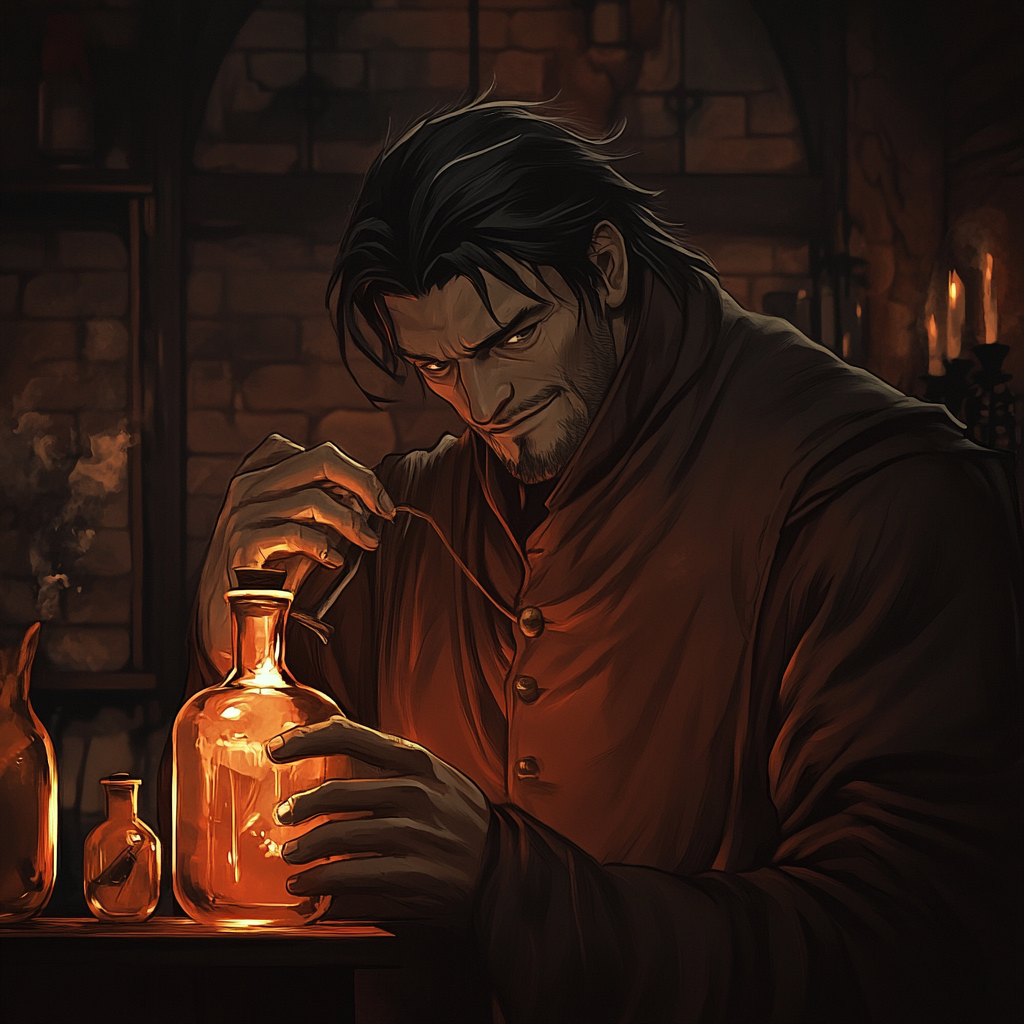
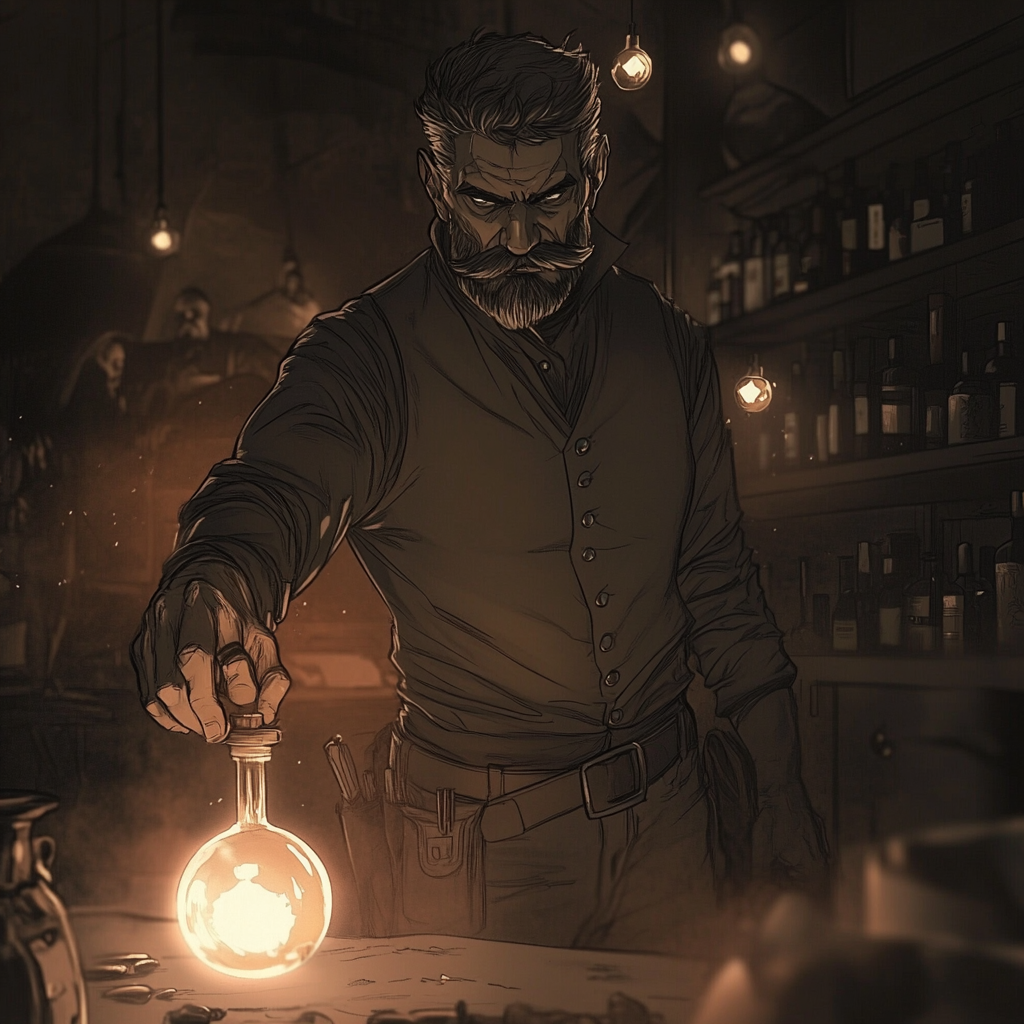
NPC Update

diff --git a/content/People/Individuals/Wagram/Criminals/Jetta.md b/content/People/Individuals/Wagram/Criminals/Jetta.md
@@ -1,7 +1,7 @@
 ---
 aliases:
   - Jetta Valentine
-draft: true
+draft: false
 tags:
   - NPC
   - Wagram
@@ -15,21 +15,32 @@ Secretly the grand-daughter of [[Oliver Valentine|Baron Oliver Valentine]]
 
 %%
 
+# Summary
+Jetta is a known agent of [[Skiggs]]. She uses her abilities in disguise and mental manipulation for both information gathering and recruitment of new talent for [[Skiggs]].
+## Connections
+Has encountered the party a couple of times knows all but [[Effi]]'s face.
+Seems to have known who [[Merrik]] was before they had a confrontation.
 # Powers
 ## Gilded Mask
 The user can subtly shift their appearance and voice to aide in any and all social situations.
+%%
 - Add +2 to all skill checks that could take into account someone's appearance.
 	- Convince, Connect, or even Sneak.
 - Ability to change facial features and voice at will
+%%
 ## Silver Tongue
 The user can infuse their words with magic. When they speaks with intent, people find it difficult to doubt them or recognize lies, at least in the moment. They can use this to negotiate, trick guards, or diffuse conflicts, but strong-willed individuals may resist, and the effect fades if contradictions become obvious.
+%%
 - Can be used 3 times per day
 - Cause the listener to make a mental saving throw. If they fail they must view the user in whatever way the user wanted as they spoke
 	- If the user is pretending to be a commanding officer, or innocent bystander then the victim believes that is what they are.
 - If the user takes a hostile action or something completely contradicts the the lie the victim immediately breaks the effect.
+%%
 ## Phantom’s Grace
 The user can create illusions of themselves tied to movement. Afterimages of themselves, flickers of motion where their isn’t, or even making an object seem to vanish when they hands it off. This makes them excellent at sleight of hand, escapes, and misdirection.
+%%
 - Grant 18 AC in combat as they leave behind afterimages and random flickers of motion that make them hard to pin down.
 - Once per day they may send out a burst of a dozen images sprinting in all directions in an attempt to escape.
 	- Any attack on one of these dozen images requires a roll to determine if it was the real user.
 	- 1d12 at the start reducing by one (1d11, 1d10) every time an image is shown to be false by taking damage.
+%%

diff --git a/content/People/Individuals/Wagram/Criminals/Skiggs.md b/content/People/Individuals/Wagram/Criminals/Skiggs.md
@@ -10,3 +10,16 @@ tags:
 ![[Skiggs.png]]%%
 
 %%
+# Summary
+The undisputed gang lord of [[The Marsh]]. Almost all of the criminals that live in his district owe some level of loyalty or at least a cut of all profits to him.
+
+A major reason he stays firmly at the top of the pile is his access to [[Dulmis' Tears]] that he gives to certain recruits to bind them both in debt and gratitude to him. This means he has a large number of [[Awakening|Awakened]] working for him.
+
+He himself is known to be [[Awakening|Awakened]] with some abilities related to explosions.
+# Connections
+### Party
+[[Maxir]] was given one of [[Dulmis' Tears]] in exchange for an enormous debt. This led to conflict between Skiggs and the party from the beginning as he sent men to collect his share of their earnings.
+
+The conflict between Skiggs and the party escalated to the point of destroying [[Merrik]]'s home and sending a manhunt for them. While the active hostilities have been settled through 3rd parties that peace is an uneasy one.
+### Nobility
+Skiggs is actually acting in some way as an agent of [[Gideon Rothvale|Viscount Gideon Rothvale]] who is the noble that is technically responsible for [[The Marsh]] district. He has been supplying Skiggs with [[Dulmis' Tears]].

diff --git a/content/People/Individuals/Wagram/Criminals/Olan Darric.md b/content/People/Individuals/Wagram/Criminals/Olan Darric.md
@@ -1,0 +1,18 @@
+---
+aliases:
+  - Olan
+draft: false
+tags:
+  - NPC
+  - Wagram
+  - Criminal
+  - Known
+weight: "0"
+---
+%%
+%%
+![[Olan.png]]
+# Summary
+Manager of [[The Titan's Repose]] a casino in [[The Marsh]] that acts as [[Skiggs]]' base of operations.
+He is also known to assist [[Skiggs]] in managing the logistics of any large scale operations.
+## Connections

diff --git a/content/People/Individuals/Wagram/Criminals/Marco Tarn.md b/content/People/Individuals/Wagram/Criminals/Marco Tarn.md
@@ -1,0 +1,14 @@
+---
+aliases:
+  - Marco
+draft: false
+tags:
+---
+%%
+
+%%
+![[Marco.png]]
+# Summary
+Marco is an information broker that is based in [[The Marsh]]. While he usually has his meeting there he is well connected enough to operate in any district in the [[Lower City]].
+## Connections
+Often works with [[Cedric]].

diff --git a/content/People/Individuals/Wagram/Criminals/Bert Grevan.md b/content/People/Individuals/Wagram/Criminals/Bert Grevan.md
@@ -1,0 +1,16 @@
+---
+aliases:
+  - Bert
+draft: false
+tags:
+  - NPC
+  - Wagram
+---
+%%
+
+%%
+![[Bert.png]]
+# Summary
+Bert is a former member of the [[Titan Guard]] that now acts as muscle for hire in some of the criminal circles within [[Wagram]]
+## Connections
+Has worked in the past with [[Cedric]].

diff --git a/content/People/Individuals/Wagram/Forgers/Kaelyn Silvercord.md b/content/People/Individuals/Wagram/Forgers/Kaelyn Silvercord.md
@@ -11,3 +11,5 @@ tags:
 
 %%
 ![[Kaelyn Silvercord.png]]
+# Summary
+## Connections
